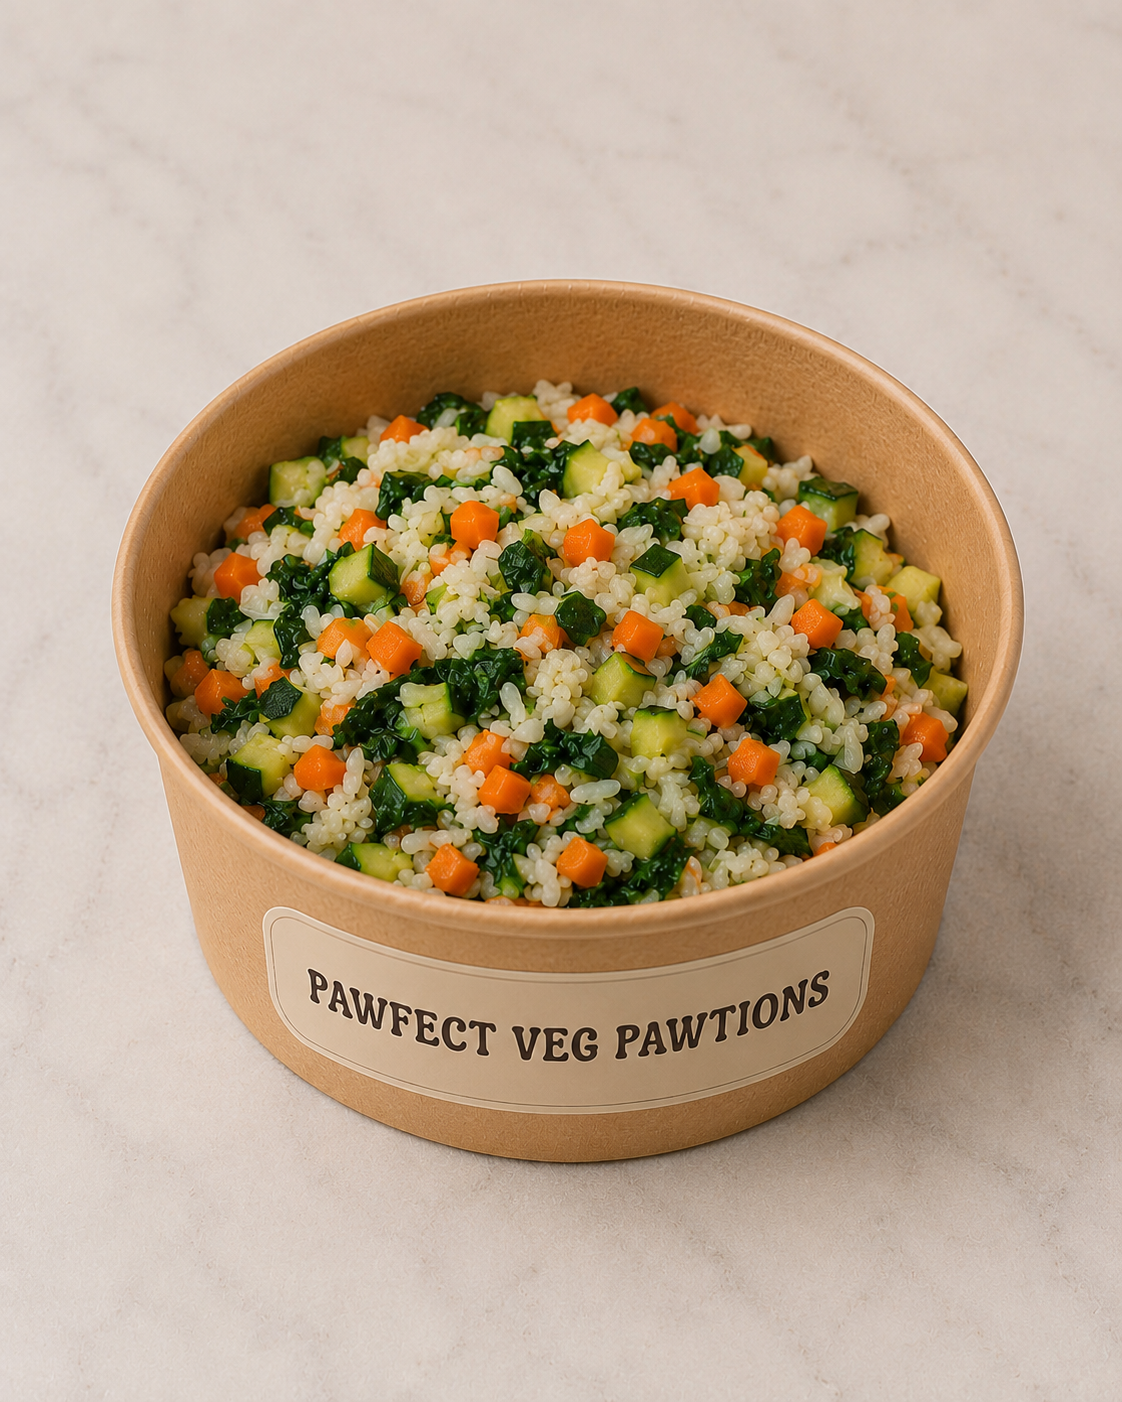
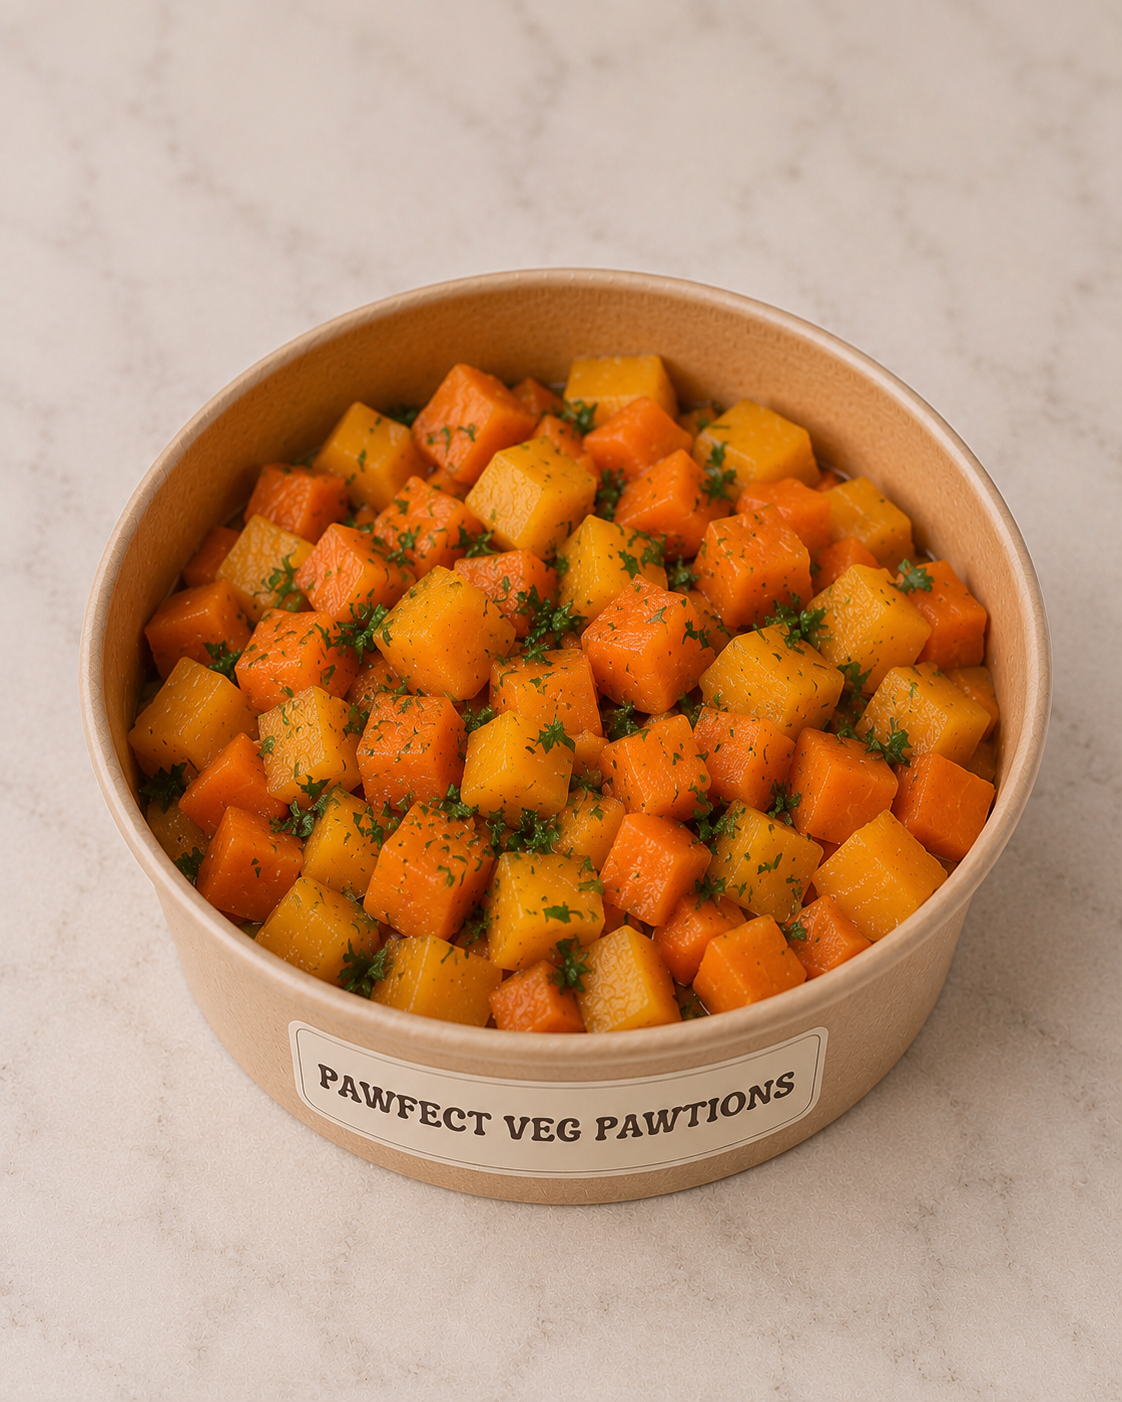
Update product images, treat flavours display, StreetSmart text, team photos
- Replace training-treats, veg-pawtions with July menu photos
- Add images for build-your-own-rawr-pack and mighty-meaty-birfday-feast
- Add flavours field to treat items; render each flavour in amber bold
- Update StreetSmart home widget to mention feeding, sterilisation, rehab, rehoming, education
- Replace tigger.png and daisy.png with renamed team photos

diff --git a/app/menu/page.tsx b/app/menu/page.tsx
@@ -12,6 +12,7 @@ type CartItem = { key: string; name: string; size: string; price: number; qty: n
 type MenuItem = {
   name: string;
   desc: string;
+  flavours?: string;
   ingredients: string[];
   subSection?: string;
   sizes: SizeOption[];
@@ -121,6 +122,7 @@ const CATEGORIES: Category[] = [
       },
       {
         name: "Build Your Own Rawr Pack",
+        image: "/products/build-your-own-rawr-pack.png",
         desc: "Choose your own ingredients from our pantry — we portion and pack it for you. Message us what you’d like included.",
         sizes: [{ label: "250g", price: 250 }, { label: "500g", price: 360 }, { label: "750g", price: 490 }, { label: "1kg", price: 650 }],
         ingredients: [
@@ -141,7 +143,8 @@ const CATEGORIES: Category[] = [
       {
         name: "Bone Appétit Biscuits",
         image: "/products/bone-appetit-biscuits.png",
-        desc: "Homemade gourmet pet biscuits in a variety of flavours picked monthly. Flavours: Chicken, Carrot & Zucchini / Peanut Butter & Pumpkin / Blueberry, Banana & Oat.",
+        desc: "Homemade gourmet pet biscuits in a variety of flavours picked monthly.",
+        flavours: "Chicken, Carrot & Zucchini · Peanut Butter & Pumpkin · Blueberry, Banana & Oat",
         sizes: [{ label: "S", price: 250 }, { label: "L", price: 350 }],
         ingredients: ["Whole wheat flour", "Rolled oats", "Egg", "Chicken broth or blueberries", "Carrot or pumpkin purée", "Banana purée", "Natural peanut butter", "Water"],
       },
@@ -149,20 +152,23 @@ const CATEGORIES: Category[] = [
         name: "Fishy Fin Biscuits",
         image: "/products/fishy-fin-biscuits.png",
         desc: "Homemade gourmet tuna biscuits — a fish lover’s dream.",
+        flavours: "Tuna",
         sizes: [{ label: "S", price: 260 }, { label: "L", price: 410 }],
         ingredients: ["Tuna", "Egg", "Oats", "Whole wheat flour"],
       },
       {
         name: "’Good Dog!’ Sweethearts",
         image: "/products/good-dog-sweethearts.png",
-        desc: "Heart-shaped biscuits in a variety of flavours picked monthly. Flavours: Blueberry, Banana & Oat / Peanut Butter & Oat.",
+        desc: "Heart-shaped biscuits in a variety of flavours picked monthly.",
+        flavours: "Blueberry, Banana & Oat · Peanut Butter & Oat",
         sizes: [{ label: "S", price: 230 }, { label: "L", price: 360 }],
         ingredients: ["Whole wheat flour", "Rolled oats", "Banana purée", "Blueberries", "Large egg", "Natural peanut butter", "Water"],
       },
       {
         name: "Pawsicles",
         image: "/products/pawsicles.png",
-        desc: "Homemade gourmet pet popsicles, set with gelatin and served chilled. Flavours: Blueberry & Banana / Pumpkin & Carrot.",
+        desc: "Homemade gourmet pet popsicles, set with gelatin and served chilled.",
+        flavours: "Blueberry & Banana · Pumpkin & Carrot",
         sizes: [{ label: "S", price: 280 }, { label: "L", price: 500 }],
         ingredients: ["Blueberries / Carrot", "Banana purée / Pumpkin purée", "Greek yogurt", "Gelatin", "Water"],
       },
@@ -170,6 +176,7 @@ const CATEGORIES: Category[] = [
         name: "Chicken Jerky",
         image: "/products/chicken-jerky.png",
         desc: "Homemade gourmet chicken jerky — chewy, delicious and packed with protein.",
+        flavours: "Chicken",
         sizes: [{ label: "One size", price: 340 }],
         ingredients: ["Chicken", "Apple cider vinegar"],
       },
@@ -212,7 +219,8 @@ const CATEGORIES: Category[] = [
       {
         name: "Training Treats",
         image: "/products/training-treats.png",
-        desc: "Homemade gourmet training treats in a variety of flavours — Chicken, Beef or Tuna.",
+        desc: "Homemade gourmet training treats in a variety of flavours.",
+        flavours: "Chicken · Beef · Tuna",
         sizes: [{ label: "XS", price: 125 }, { label: "S", price: 250 }, { label: "L", price: 300 }],
         ingredients: [
           "Chicken: whole wheat flour, rolled oats, chicken pate, egg, chicken broth",
@@ -257,6 +265,7 @@ const CATEGORIES: Category[] = [
     items: [
       {
         name: "Mighty-Meaty Birfday Feast",
+        image: "/products/mighty-meaty-birfday-feast.png",
         desc: "A selection of meat portions bundled into a mighty meat feast for your pet’s special day. Available raw or cooked. Min feast weight 200g.",
         sizes: [{ label: "One size", price: 395 }],
         ingredients: ["Pawfect steak", "Pig feet", "Chicken feet/necks", "Beef balls", "Beef chunks", "Shredded chicken", "Chicken/beef liver", "Chicken organs", "Sardines", "Mackerel", "Tuna"],
@@ -348,6 +357,18 @@ function ItemCard({
       <div style={{ flex: 1, display: "flex", flexDirection: "column", gap: 5, minWidth: 0 }}>
         <p style={{ fontFamily: "var(--font-head)", fontWeight: 700, fontSize: "1.02rem", lineHeight: 1.2 }}>{item.name}</p>
         <p style={{ color: "var(--ink-soft)", fontWeight: 500, fontSize: ".84rem", lineHeight: 1.5 }}>{item.desc}</p>
+
+        {item.flavours && (
+          <p style={{ fontFamily: "var(--font-head)", fontWeight: 700, fontSize: ".78rem", color: "var(--ink)", lineHeight: 1.5 }}>
+            <span style={{ color: "var(--ink-soft)", fontWeight: 500 }}>Flavours: </span>
+            {item.flavours.split(" · ").map((f, i, arr) => (
+              <span key={i}>
+                <span style={{ color: "var(--amber)", fontWeight: 700 }}>{f}</span>
+                {i < arr.length - 1 && <span style={{ color: "var(--ink-soft)", fontWeight: 400 }}> · </span>}
+              </span>
+            ))}
+          </p>
+        )}
 
         {/* size selector */}
         {multiSize && (

diff --git a/components/HomeTiles.tsx b/components/HomeTiles.tsx
@@ -591,7 +591,7 @@ function StreetSmartContent() {
   return (
     <div style={{ display: "flex", flexDirection: "column", gap: 20 }}>
       <p style={{ fontFamily: "var(--font-body)", fontWeight: 500, lineHeight: 1.7, color: "var(--ink-soft)", fontSize: ".95rem", maxWidth: "60ch" }}>
-        StreetSmart is our initiative for the dogs and cats of Mauritius without a home. A share of every order goes directly to funding stray animal sterilisation, rehabilitation, rehoming, and raising awareness and education for animal wellbeing across the island — and you can contribute directly below.
+        StreetSmart is our initiative for the dogs and cats of Mauritius without a home. A portion of every purchase is contributed directly to our StreetSmart Campaign — funding stray animal feeding programmes, sterilisation initiatives, rehabilitation efforts, rehoming, and community education projects that raise awareness for animal wellbeing across Mauritius. You can also contribute directly below.
       </p>
 
       <Link href="/streetsmart" className="btn dark" style={{ alignSelf: "flex-start", fontSize: ".85rem", padding: "9px 18px" }}>
